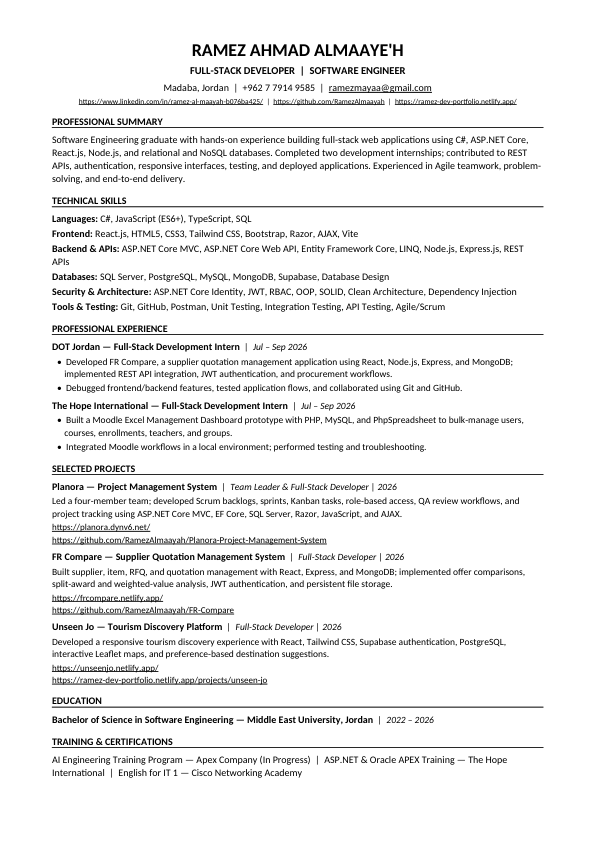
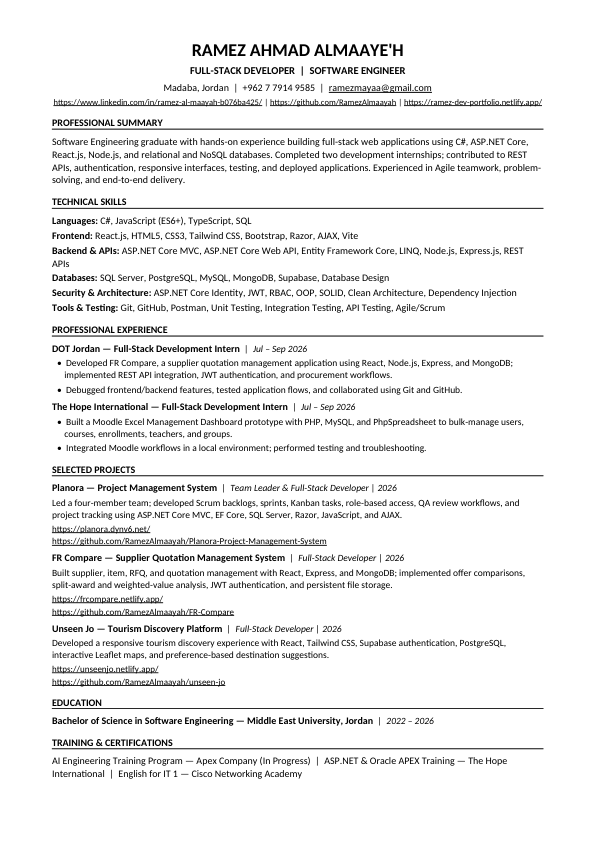
Replace portfolio CV with newly approved PDF

Changed region(s): [[0.0906, 0.0926, 0.906, 0.9264], [0.8456, 0.6793, 0.8758, 0.7102]]

diff --git a/docs/LATEST-CV-UPDATE.md b/docs/LATEST-CV-UPDATE.md
@@ -4,11 +4,11 @@ The existing React/TypeScript/Vite portfolio is maintained at https://ramez-dev-
 
 ## Approved content and CV
 
-The user explicitly confirmed `C:/Users/Magic Systems/Downloads/Ramez_Ats_CV_New.pdf` as the approved replacement after the requested Larger_Font filename could not be found. The supplied PDF was inspected and copied byte-for-byte to `public/ramez-ahmad-resume.pdf`. It was not recreated or edited.
+The user supplied `C:/Users/Magic Systems/Downloads/Ramez_Ats_CV_New (1).pdf` as the new approved CV on 4 November 2026. It was inspected and copied byte-for-byte to `public/ramez-ahmad-resume.pdf`. The PDF was not recreated or edited.
 
 - Public download: `/ramez-ahmad-resume.pdf`
-- Size: 80,463 bytes
[1 lines of base64/hex data omitted]
+- Size: 80,381 bytes
[1 lines of base64/hex data omitted]
 - Visual inspection: `docs/approved-cv-preview.png`
 
 The profile now states the junior full-stack/software engineering career target, both July–September 2026 internships, six aligned skill groups, the Software Engineering degree (2022–2026), Apex AI Engineering training marked In Progress, ASP.NET & Oracle APEX training, and English for IT 1. Unsupported general Python/Docker/CI/CD skill claims were removed. CaeloTerra remains an additional valid project with its existing in-development scope.

diff --git a/README.md b/README.md
@@ -53,7 +53,7 @@ Planora uses the supplied real Admin Dashboard and Project Analytics screenshots
 
 ### Resume
 
-The latest matching Full-Stack CV was verified and copied unchanged from `Downloads/Ramez_Ats_CV_New.pdf` to:
+The latest matching Full-Stack CV was verified and copied unchanged from `Downloads/Ramez_Ats_CV_New (1).pdf` to:
 
 ```text
 public/ramez-ahmad-resume.pdf
